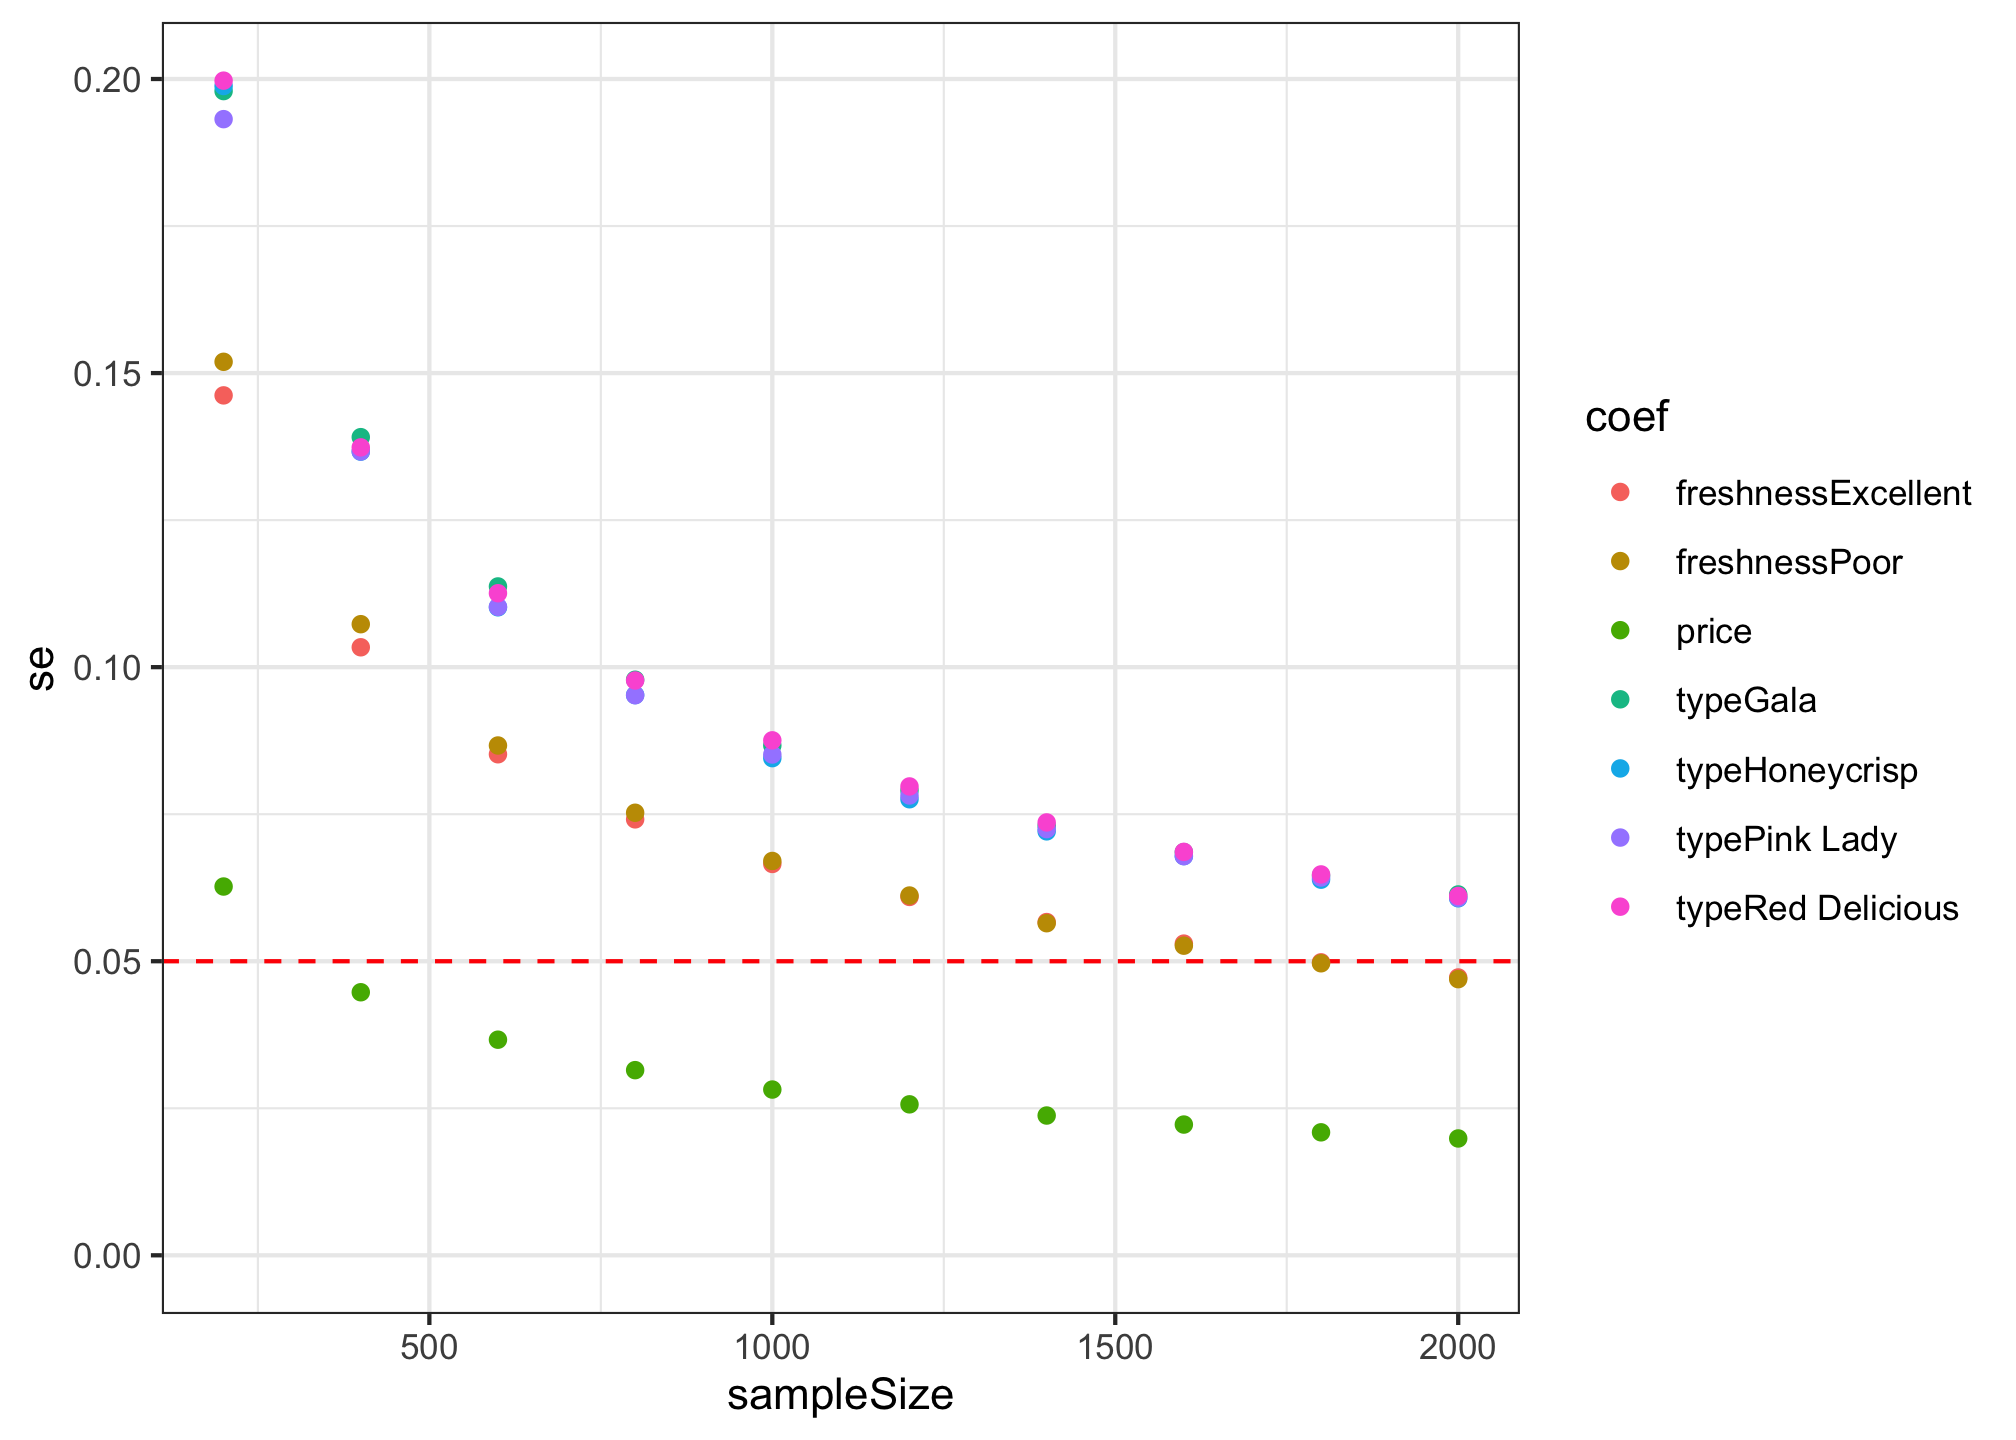
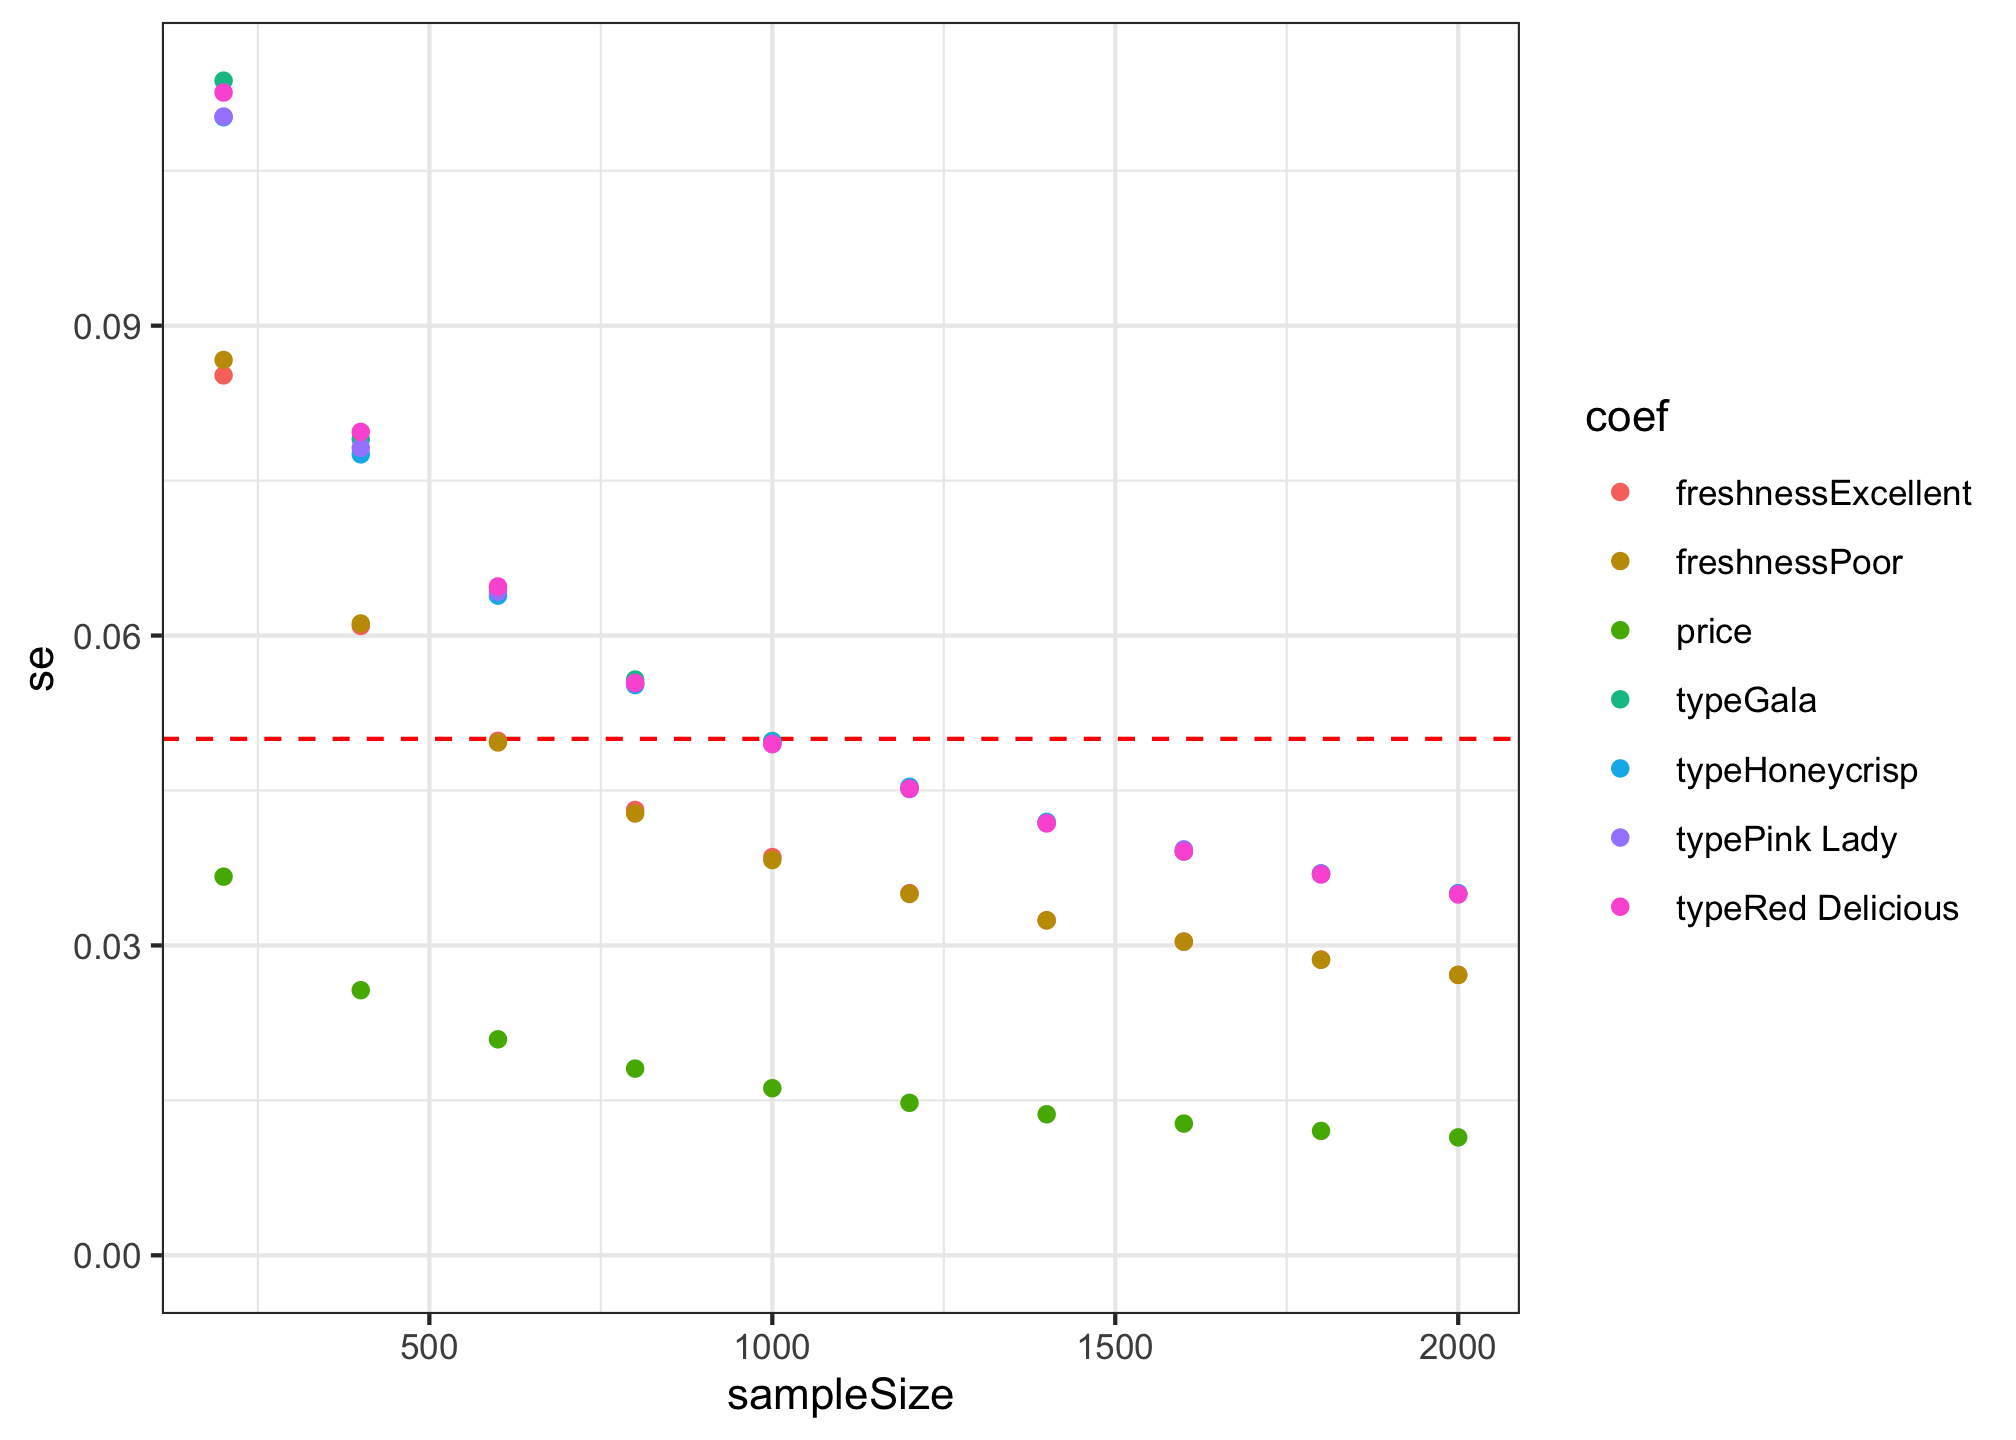
update readme

diff --git a/README.md b/README.md
@@ -339,13 +339,13 @@ from each model can be extracted using the `getModelResults()` function:
 results <- getModelResults(models)
 
 head(results)
-#>   sampleSize               coef         est         se
-#> 1        200              price  0.07186463 0.06270189
-#> 2        200           typeGala  0.02257590 0.19794632
-#> 3        200     typeHoneycrisp  0.01799576 0.19880331
-#> 4        200      typePink Lady  0.17532205 0.19317624
-#> 5        200  typeRed Delicious  0.02069389 0.19972046
-#> 6        200 freshnessExcellent -0.05825836 0.14620813
+#>   sampleSize               coef        est         se
+#> 1        200              price 0.06053738 0.03665858
+#> 2        200           typeGala 0.04767441 0.11372197
+#> 3        200     typeHoneycrisp 0.05519936 0.11017844
+#> 4        200      typePink Lady 0.15511684 0.11024854
+#> 5        200  typeRed Delicious 0.02942539 0.11257031
+#> 6        200 freshnessExcellent 0.03273217 0.08519040
 ```
 
 Here is a summary of the standard errors for each sample size:
